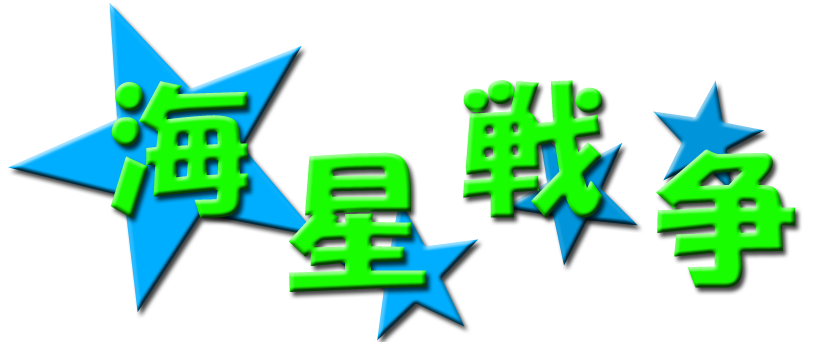
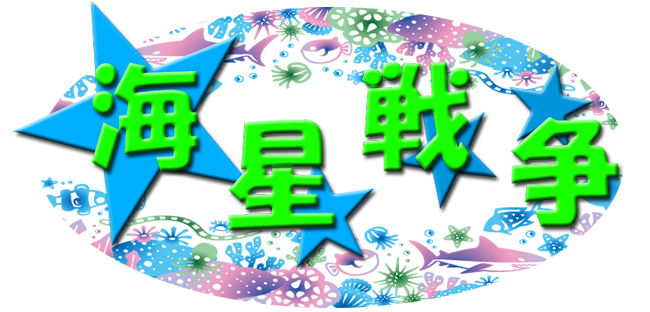
kousin

diff --git a/Project/StarProject/Scene/TitleScene.cpp b/Project/StarProject/Scene/TitleScene.cpp
@@ -109,9 +109,9 @@ void TitleScene::Draw()
 
 	DxLib::DrawExtendGraph(0, 0, size.x, size.y, titleback, true);
 	SetDrawBlendMode(DX_BLENDMODE_ALPHA, 172);
-	DrawBox((size.x- titlex)/2, (size.y + titley) / 2 - titley - titley / 2, (size.x+ titlex)/2, (size.y - titley) - titley / 8, 0x003377, true);
+	//DrawBox((size.x- titlex)/2, (size.y + titley) / 2 - titley - titley / 2, (size.x+ titlex)/2, (size.y - titley) - titley / 8, 0x003377, true);
 	SetDrawBlendMode(DX_BLENDMODE_ALPHA, 255);
-	DxLib::DrawRotaGraph((size.x) / 2, (size.y) / 2 - titley /2, 1, 0, title, true);
+	DxLib::DrawRotaGraph((size.x) / 2 - 35, (size.y) / 2 - titley /2, 1, 0, title, true);
 	SetDrawBlendMode(DX_BLENDMODE_ALPHA, 172);
 	if (colorflame >= 252) {
 		blendcolor = -1;
